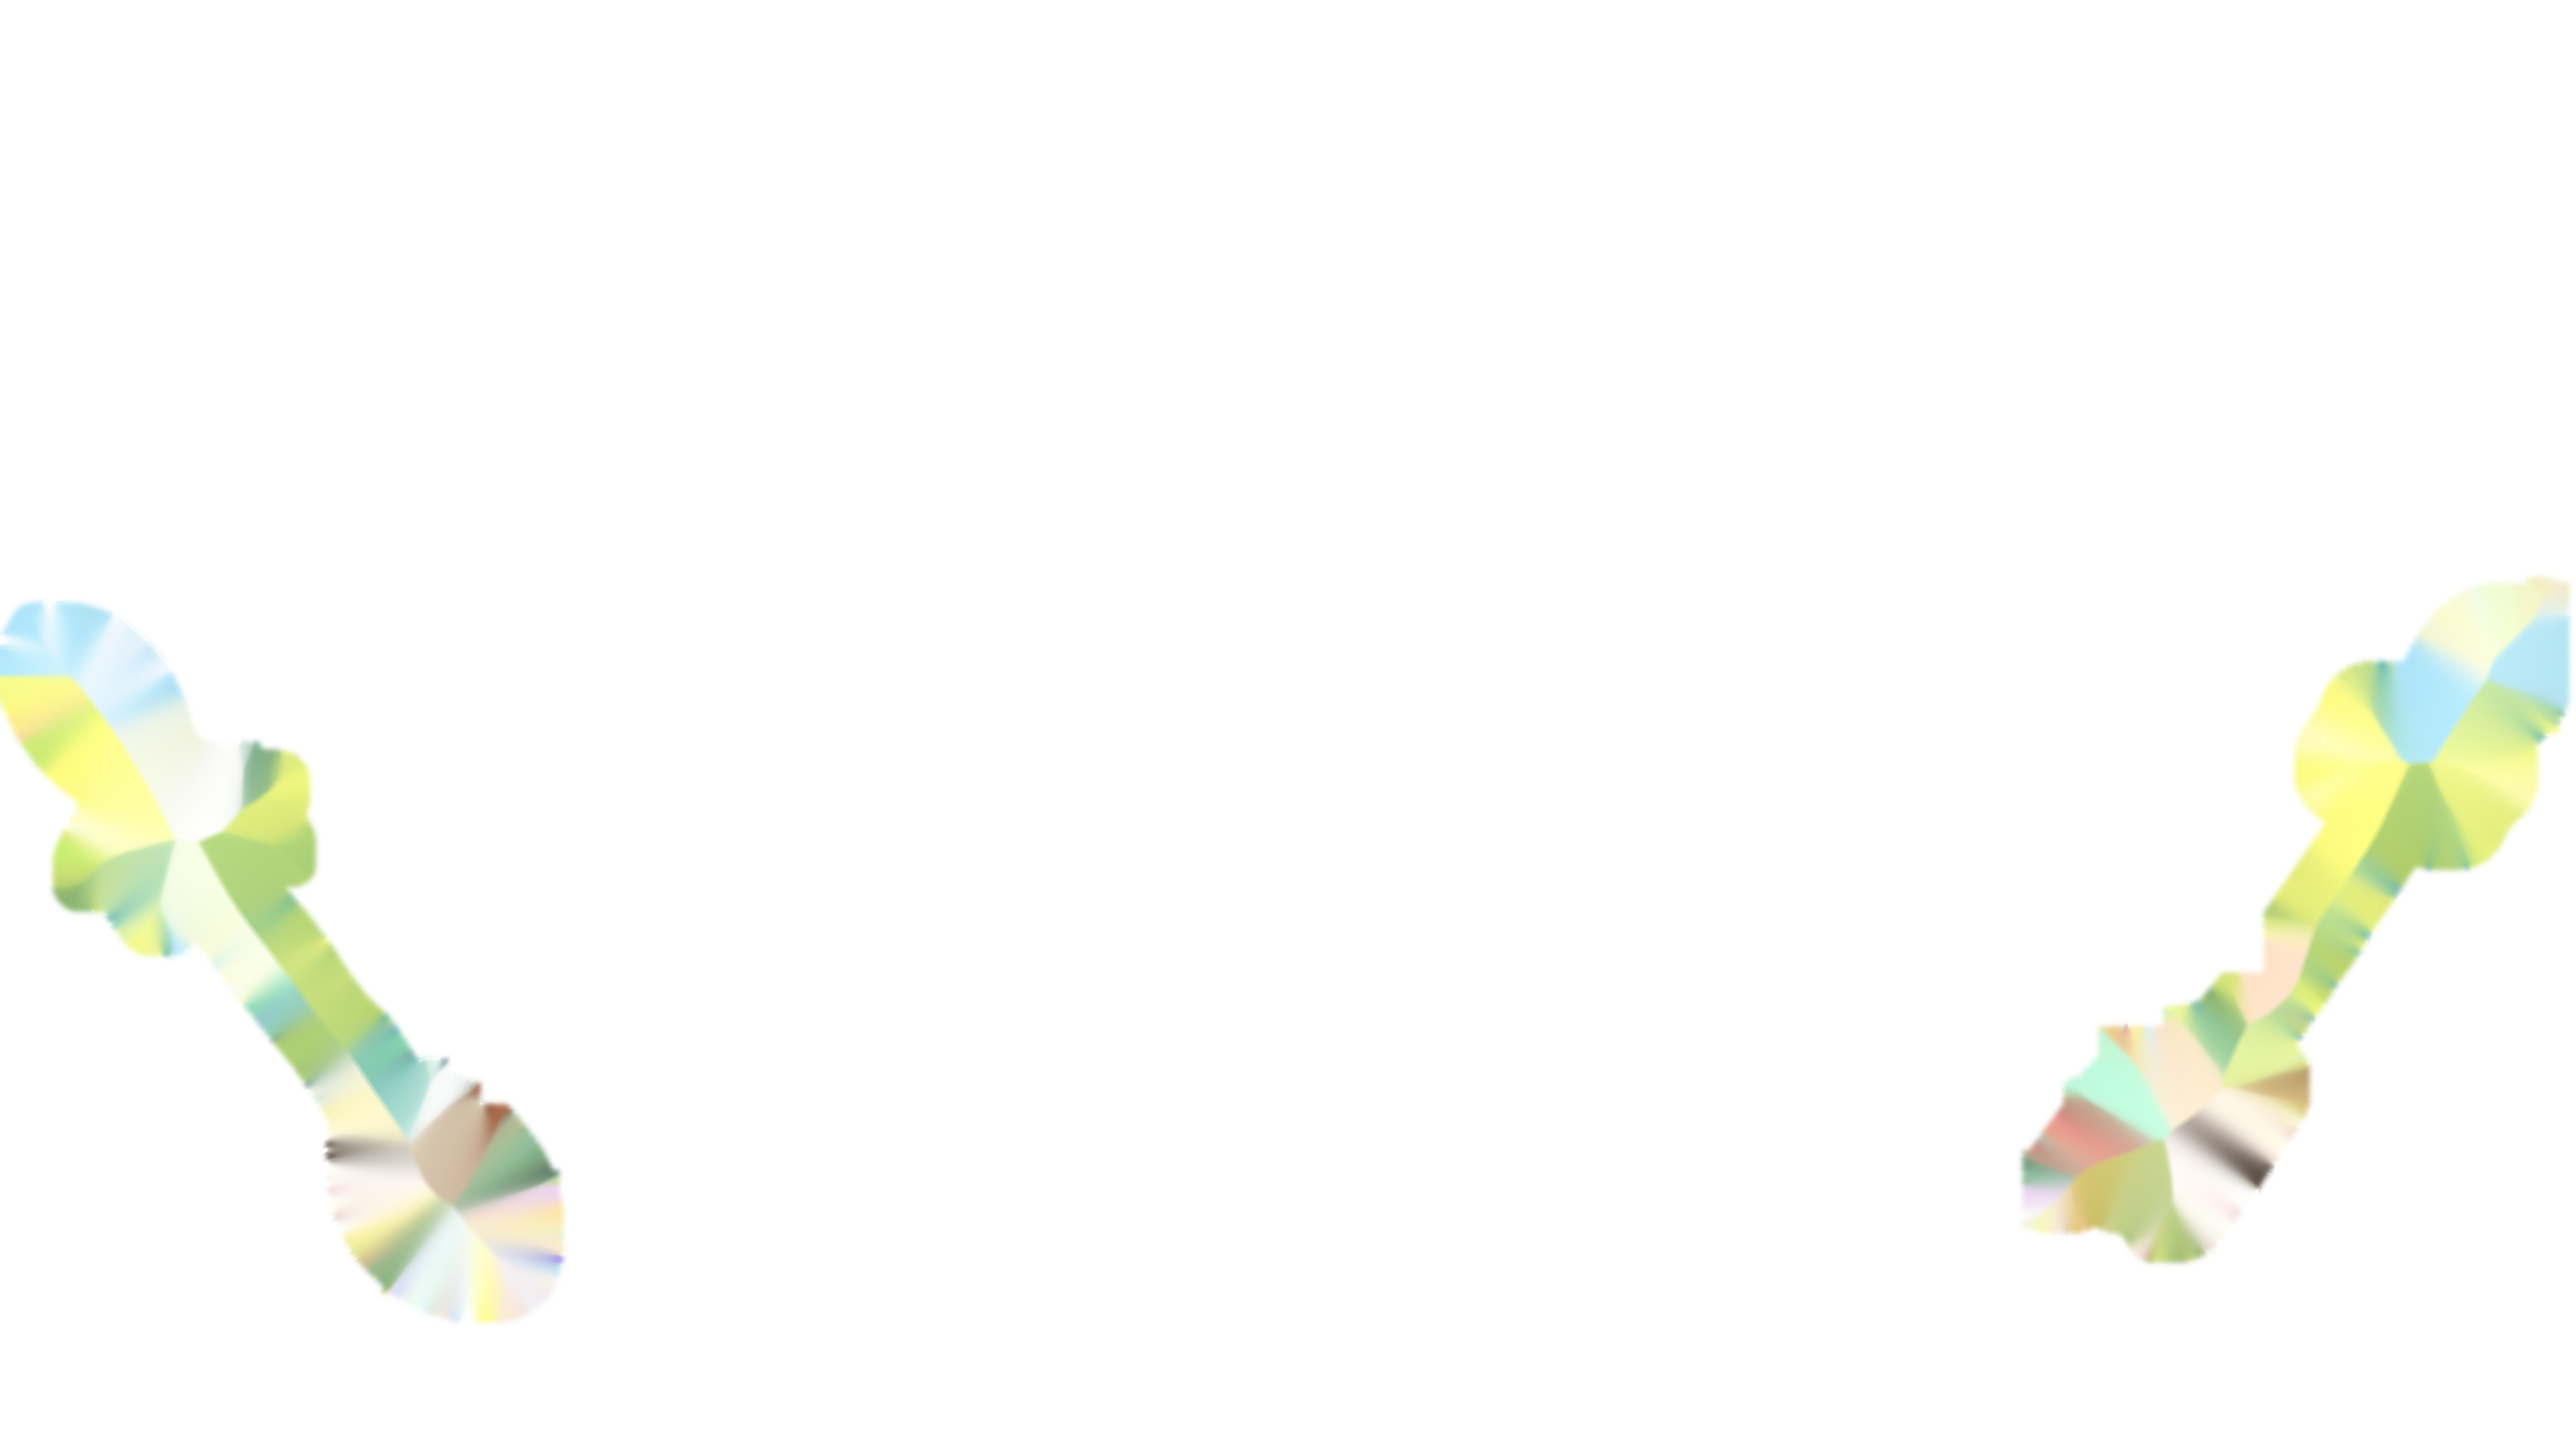
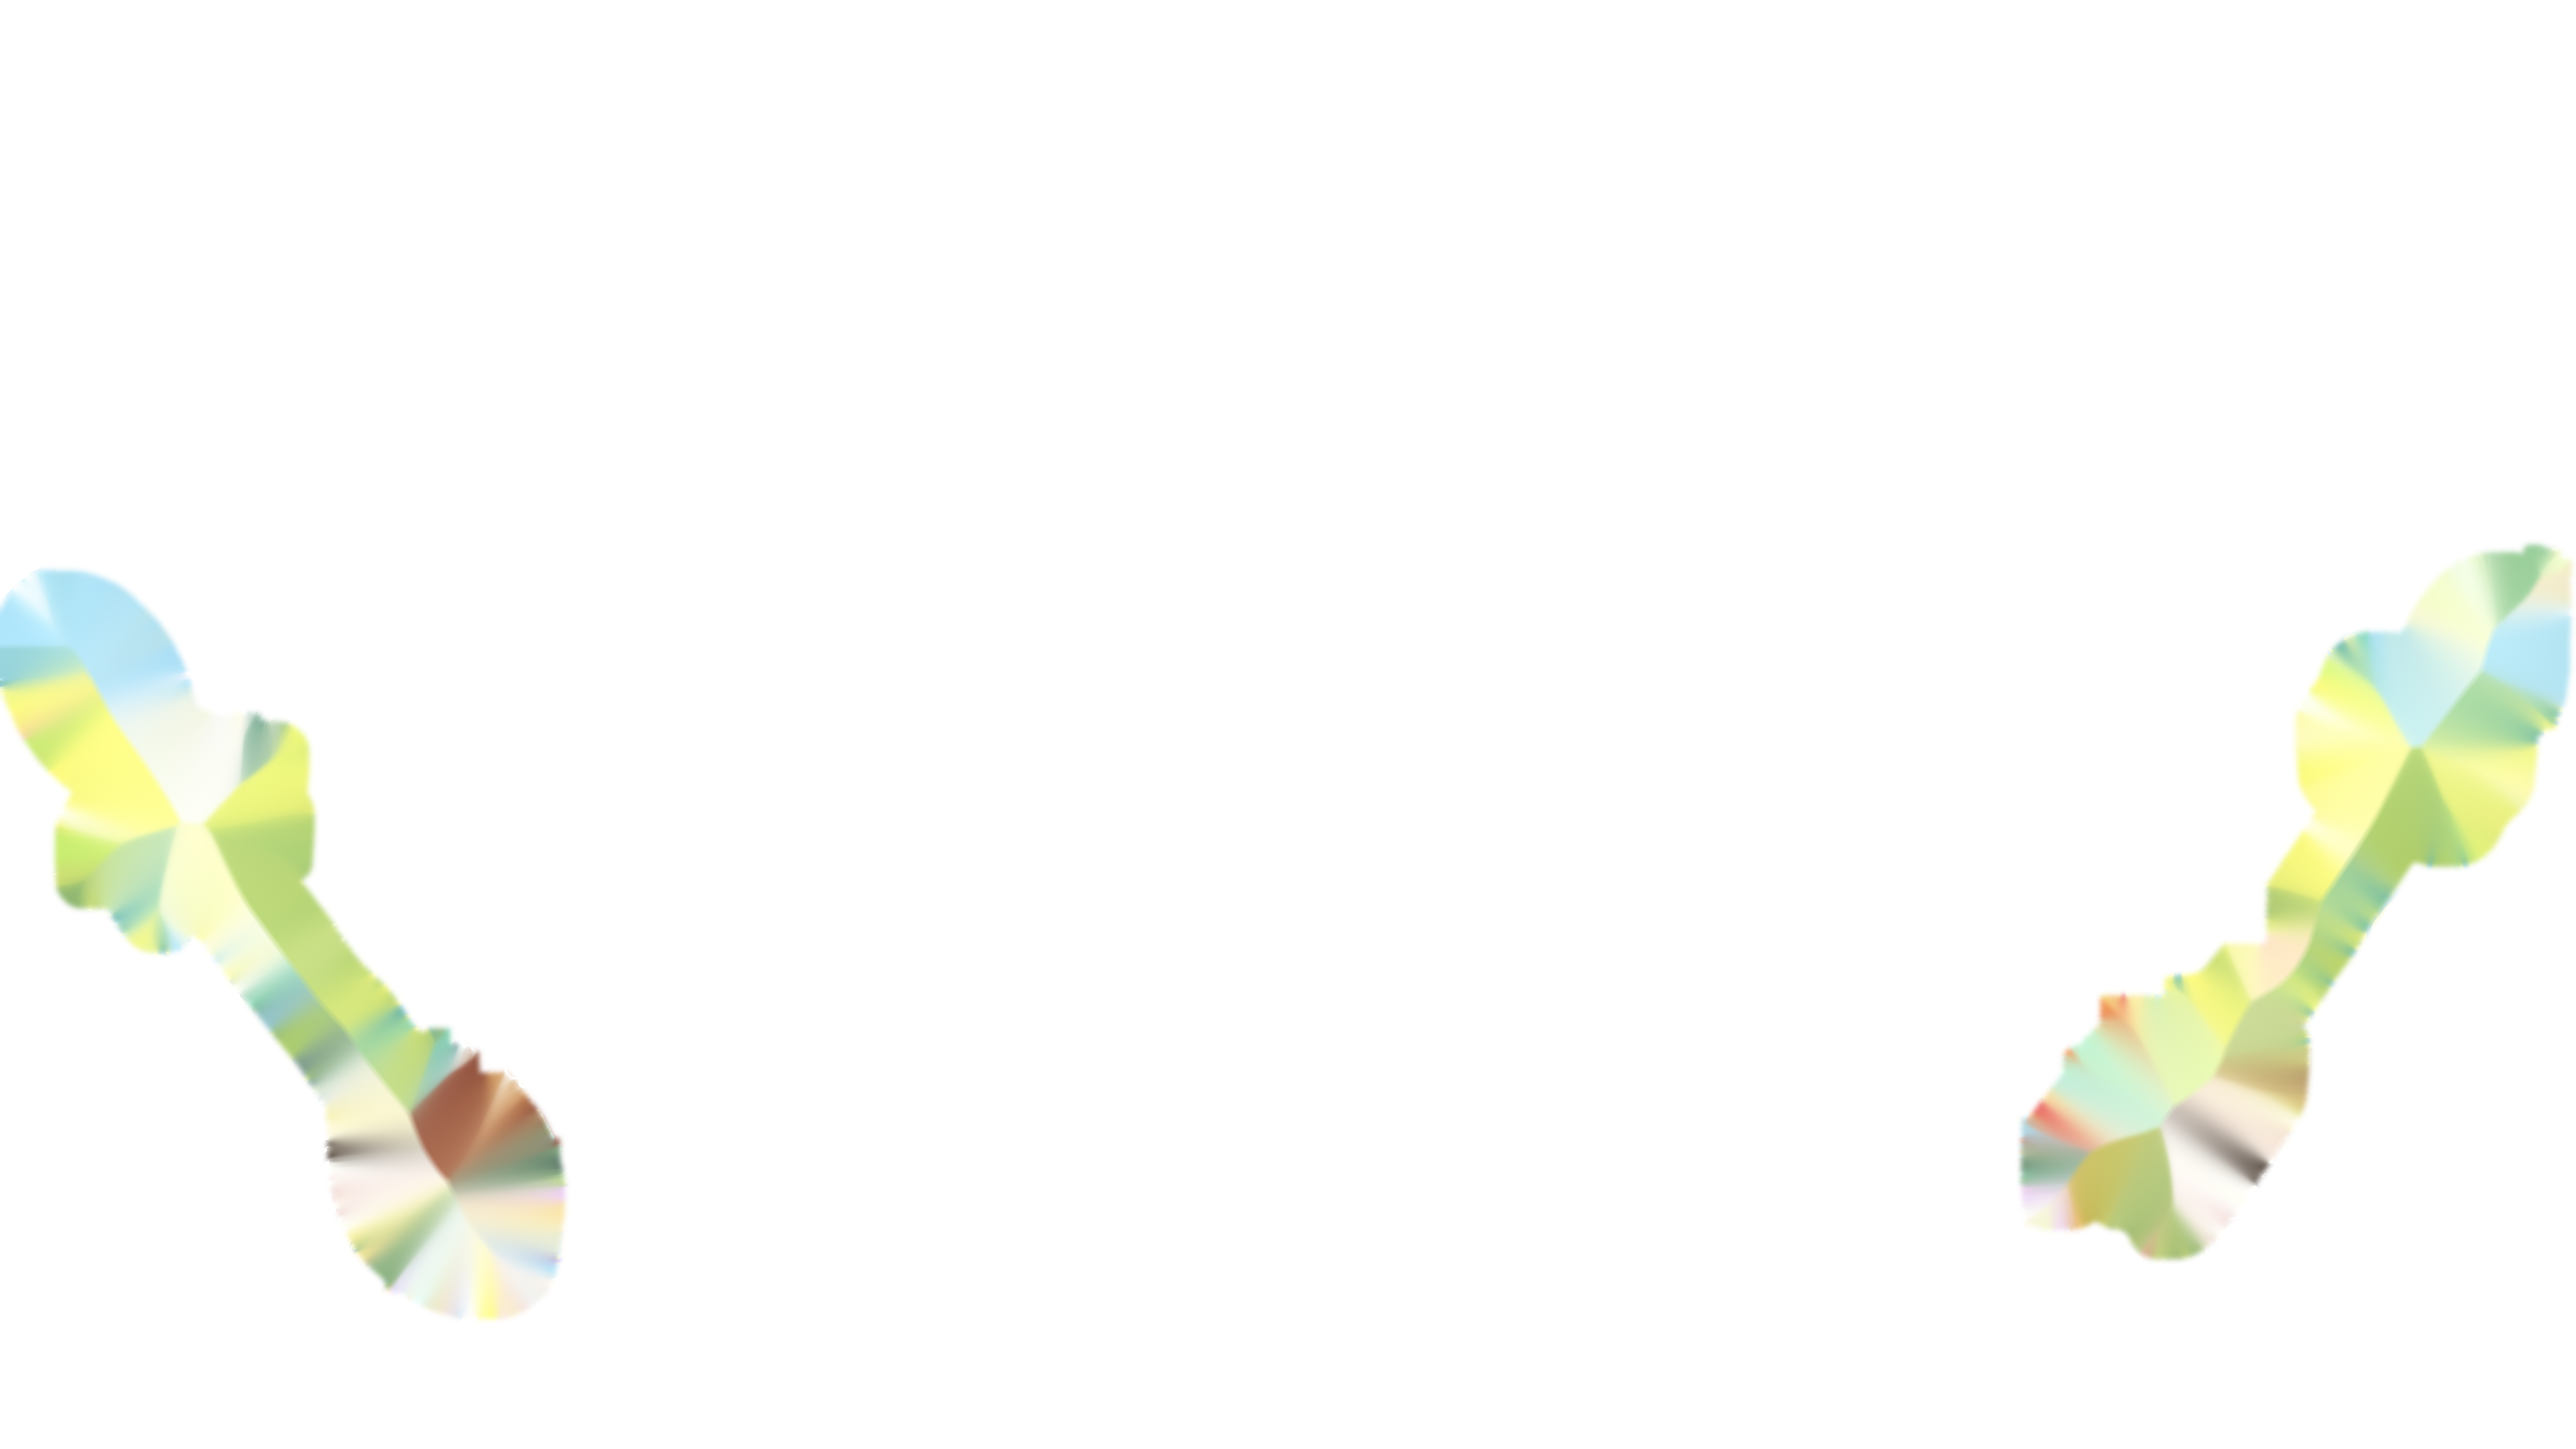
Make the title cutlery drift read at a glance
Raises the drift to ~47 canvas px of lift plus a degree of tilt, and
regenerates the patch to cover the swept path rather than a fixed ring,
so the bigger travel still hides the painted originals. The amplitude is
clamped at the default ambient level because ?ambient=strong would push
it past what the patch covers.

diff --git a/src/index.css b/src/index.css
@@ -713,15 +713,18 @@ body {
 }
 
 /* 타이틀 스푼·포크 — 배경에서 떼어낸 레이어가 제자리에서 둥실.
-   원래 자리는 title-bg-patch 가 메우고 있으므로 진폭이 그 여유(캔버스 31px)를
-   넘으면 원본이 새어 나온다. translateY 1.1% + rotate 0.6deg 가 상한. */
+   title-bg-patch 는 이 움직임이 훑고 지나가는 범위(스윕)만큼만 메워져 있다.
+   그래서 아래 두 수치를 키우면 원본 스푼이 새어 나온다 — 키우려면 patch 재생성 먼저. */
 @keyframes art-drift-kf {
   0%, 100% { transform: translateY(0) rotate(0deg); }
-  50%      { transform: translateY(calc(-1.1% * var(--ambient)))
-                        rotate(calc(var(--drift-dir, 1) * 0.6deg * var(--ambient))); }
+  50%      { transform: translateY(calc(-3.6% * var(--drift-amp)))
+                        rotate(calc(var(--drift-dir, 1) * 1.6deg * var(--drift-amp))); }
 }
 .art-drift {
-  animation: art-drift-kf 7.2s ease-in-out infinite;
+  /* 진폭은 --ambient 를 타되 0.6에서 자른다 — ?ambient=strong(1.6)으로 키우면
+     patch 범위를 넘기 때문. reduced-motion(--ambient:0)에서는 그대로 정지. */
+  --drift-amp: min(var(--ambient), 0.6);
+  animation: art-drift-kf 6.4s ease-in-out infinite;
 }
 
 /* 로딩 게이트가 열릴 때 화면 전체가 부드럽게 나타남 */

diff --git a/CLAUDE.md b/CLAUDE.md
@@ -68,7 +68,8 @@ All image placeholders in `src/assets/images/`. Replace PNG files with same file
 - `title-spoon.png` / `title-fork.png` — 실루엣만 남긴 컷아웃 (GrabCut + 색 정리, 스크래치패드 스크립트)
 - `title-bg-patch.png` — 떼어낸 자리를 메운 배경 조각. **배경 바로 위에 깔아야** 원본 스푼이 비치지 않는다
 - 셋 다 `art-zoom` 컨테이너 **안**에 넣을 것 — 배경만 켄번즈 줌이 걸리면 메운 자리와 어긋난다
-- 흔들림은 `.art-drift` (index.css). 진폭 상한 = 패치 여유(캔버스 31px). translateY 1.1% + rotate 0.6deg를 넘기면 원본이 새어 나온다
+- 흔들림은 `.art-drift` (index.css). 현재 유효 진폭 translateY 47px + rotate 0.96deg (캔버스 기준)
+- **patch는 그 움직임이 훑는 범위(스윕)만큼만 메워져 있다** — 진폭을 키우려면 patch 재생성이 먼저다. `--drift-amp`가 `min(--ambient, 0.6)`인 것도 `?ambient=strong`으로 진폭이 patch를 넘지 않게 하기 위함
 
 ### Fox Character Layer System
 `Character.jsx`가 동적 임포트로 자동 인식. 다음 파일이 모두 있으면 레이어 모드로 동작:
